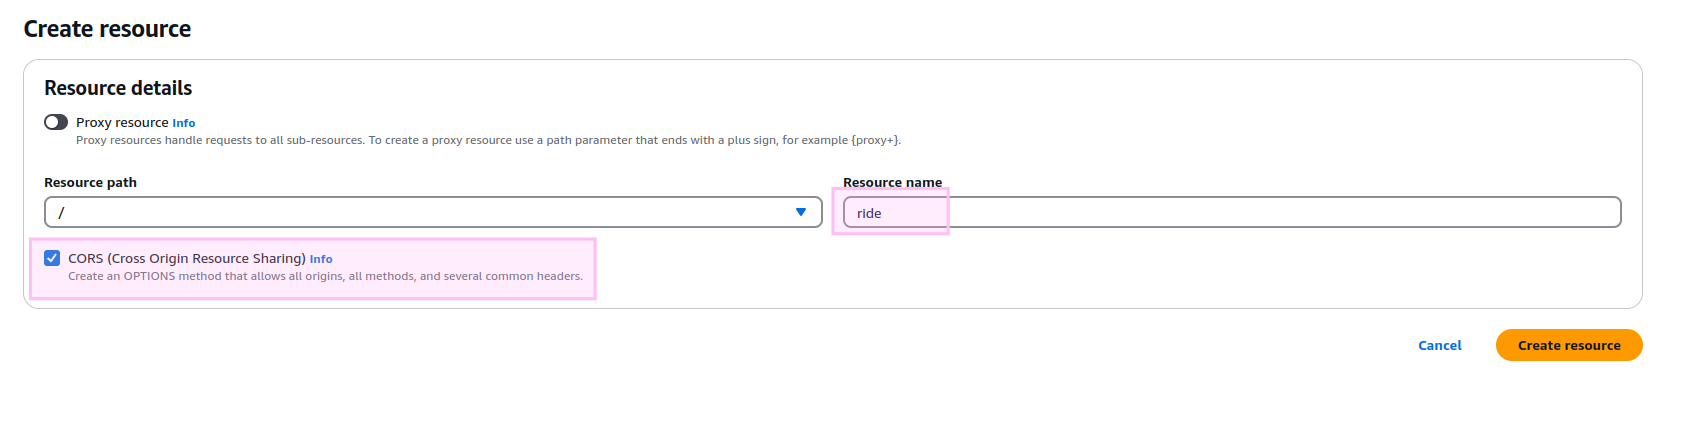
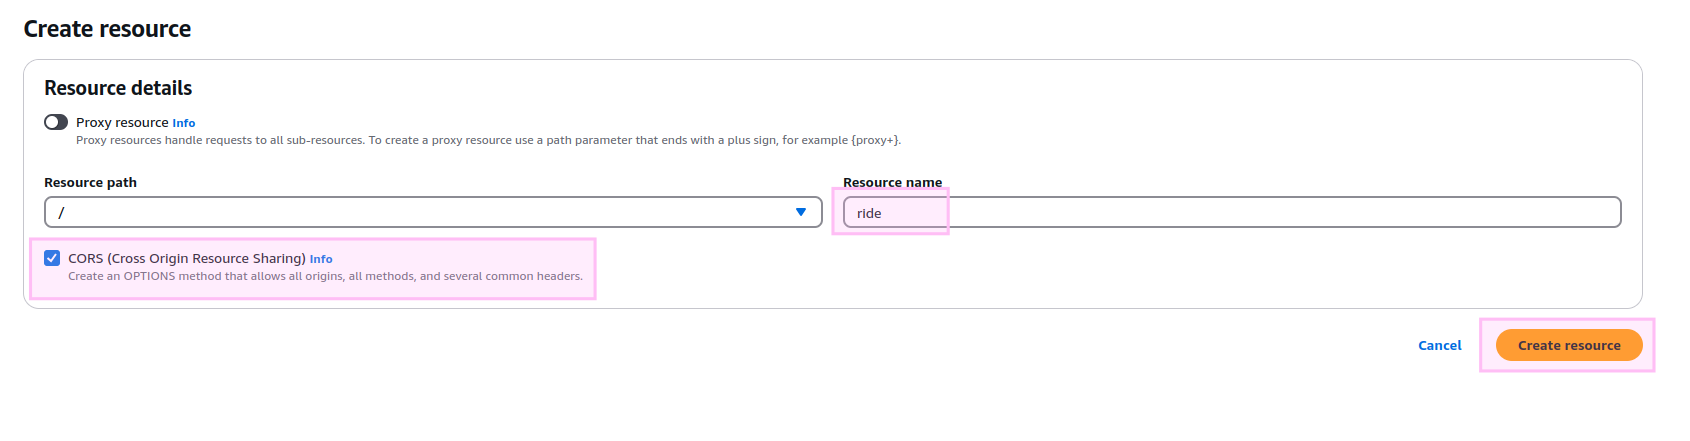
readme

Changed region(s): [[0.8615, 0.7075, 0.9846, 0.8549]]

diff --git a/README.md b/README.md
@@ -292,6 +292,12 @@ cdk init app --language javascript
 
 ![](imgs/sec-36_2.png)  
 
+> ***Observation:** If you see a warning because the version of **Node.js** is higher than the maximum tested version for **cdk**, run the following command to avoid it:*
+
+```
+export JSII_SILENCE_WARNING_UNTESTED_NODE_VERSION=1
+```
+
 3. Prepare your AWS environment to use cdk; save the default template used by the CDK bootstrap process to a yaml file (bootstrap-template.yaml in this case):
 
 ```
@@ -301,12 +307,6 @@ cdk bootstrap --show-template > bootstrap-template.yaml
 ***Reminder:** The following bootstrap setup is custom, as when you run ```cdk bootstrap```, an AWS CloudFormation stack (CDKToolkit) is created in your account. This stack provides the resources that CDK needs to deploy and manage the infrastructure, and among these resources are IAM roles (which are not currently supported in the AWS Academy account).*
 
 ![](imgs/sec-32.png)  
-
-**Observation:** If you see a warning because the version of *Node.js* is higher than the maximum tested version for cdk, run the following command to avoid this:
-
-```
-export JSII_SILENCE_WARNING_UNTESTED_NODE_VERSION=1
-```
 
 4. Comment on these *Resorces* (and their features):
 
@@ -320,7 +320,61 @@ export JSII_SILENCE_WARNING_UNTESTED_NODE_VERSION=1
 
 5. Find the *FileAssetsBucketEncryptionKey* resource, and change the value of *Fn::Sub* from *${FilePublishingRole.Arn}* to "*".
 
-6. Files explanation...
+6. In this cdk, there are three key files:
+
+> **1. [bin/request-unicorn.js](backend/request-unicorn/bin/request-unicorn.js)** (CDK App Entry Point)
+
+This file acts as the entry point for the CDK application. It creates an instance of the RequestUnicornStack. The stack is environment-agnostic by default, meaning it can be deployed to any AWS account/region. The file includes commented options to:
+
+- Specialize the stack for the current CLI configuration
+- Deploy to a specific AWS account and region
+
+
+> **2. [lib/request-unicorn-stack.js](backend/request-unicorn/lib/request-unicorn-stack.js)** (Infrastructure Stack)
+
+The RequestUnicornStack creates a serverless backend with the following components:
+
+- **Lambda Function**: Creates a function using Node.js runtime with code from the [lib/lambda-handler](backend/request-unicorn/lib/lambda-handler/) directory
+- **API Gateway**: Sets up a REST API endpoint that integrates with the Lambda function
+- **DynamoDB Table**: Creates a **Rides** table with the following configuration:
+
+  **- Partition key:** RideId (String)
+
+  **- Billing:** Pay-per-request
+
+  **- Removal policy:** The table will be destroyed when the stack is destroyed
+
+The stack uses a pre-existing IAM role (**LabRole**) for Lambda execution permissions.
+
+
+> **3. [lib/lambda-handler/index.js](backend/request-unicorn/lib/lambda-handler/index.js)** (Lambda Function Handler)
+
+A serverless function that manages unicorn ride requests with the following features:
+
+- **Authentication**: Uses Cognito User Pools for request authorization
+- **Fleet Management**: Maintains a fleet of unicorns with these properties:
+
+  - Name
+  - Color
+  - Gender  
+
+
+* **Key Functionalities:**
+
+  - Generates unique ride IDs
+  - Validates authorized requests
+  - Randomly assigns a unicorn from the fleet
+  - Records ride details in DynamoDB
+  - Returns ride information including ETA (Estimated Time of Arrival)  
+
+
+- **Error handling:**
+
+  - Proper error responses for unauthorized requests
+  - 500 error responses for processing failures
+  - CORS support with appropriate headers
+
+* The function integrates with DynamoDB using the AWS SDK v3 client libraries for storing ride information.
 
 7. Synthesize your CDK application into the AWS CloudFormation template:
 
@@ -448,14 +502,77 @@ aws configure get region
 
 ![](imgs/sec-51.png)
 
-![](imgs/sec-52.png)  
-![](imgs/sec-53.png)  
+7. Set the Resorce details:
+
+- Resource Name: **ride** (the ***/ride*** resource route will be automatically created)
+- Select the **Cross Origin Resource Sharing)** checkbox
+
+8. Select **Create resource**
+
+![](imgs/sec-52.png)
+
+9. With the created **/ride** resource selected, from the **Resources** drop-down menu, select **Create Method**
+
+![](imgs/sec-53.png)
+
+10. Set up the **Mehod details**:
+
+* **Method type:** POST
+* **Integration type:** Lambda function
+* *Enable the **Lambda proxy Integration** option*
+* **Lambda function:** Select your **region** and the Lambda function you previously created
+
 ![](imgs/sec-54.png)  
-![](imgs/sec-55.png)  
-![](imgs/sec-56.png)  
+
+**Region**
+
+Check it by running:
+
+```
+aws configure get region
+```
+
+**Lambda Funtion**
+
+![](imgs/sec-40.png)
+
+11. Set up the **Mehod request settings**:
+
+* **Authorization:** WildRydes (*Select the previously created **Authorizer***)
+
+![](imgs/sec-55.png)
+
+12. Select **Create method**
+
+13. After creating the method, select **Deploy API**
+
+![](imgs/sec-56.png)
+
+14. Set up your API:
+
+* **Stage:** *(Select)* New Stage
+* **Stage name:** prod *(give your stage a name)*
+
+15. Select **Deploy**
+
 ![](imgs/sec-57.png)  
-![](imgs/sec-58.png)  
+
+16. After creating your Stage, you will see the **Invoke URL**; copy it
+
+![](imgs/sec-58.png)
+
+17. Go to the [AWS-wildrydes-site configuration file (js/config.js)](https://github.com/nduran06/AWS-wildrydes-site/blob/main/js/config.js) and assign the **Invoke URL** as the value for the **invokeUrl** attribute:
+
 ![](imgs/sec-59.png)
+
+18. Commit the changes and push it to the repository:
+
+```
+git commit -m "api invokeUrl config"
+```
+```
+git push
+```
 
 ## Test
 
